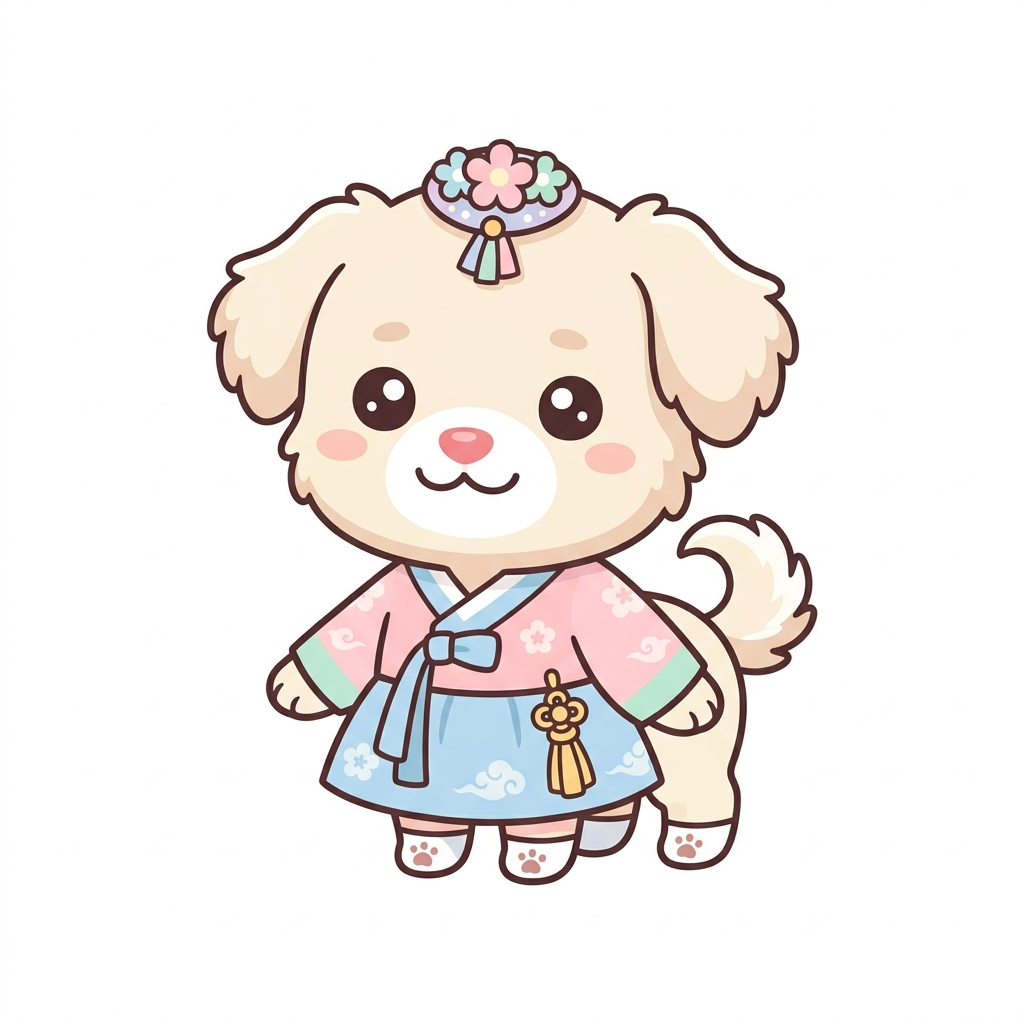
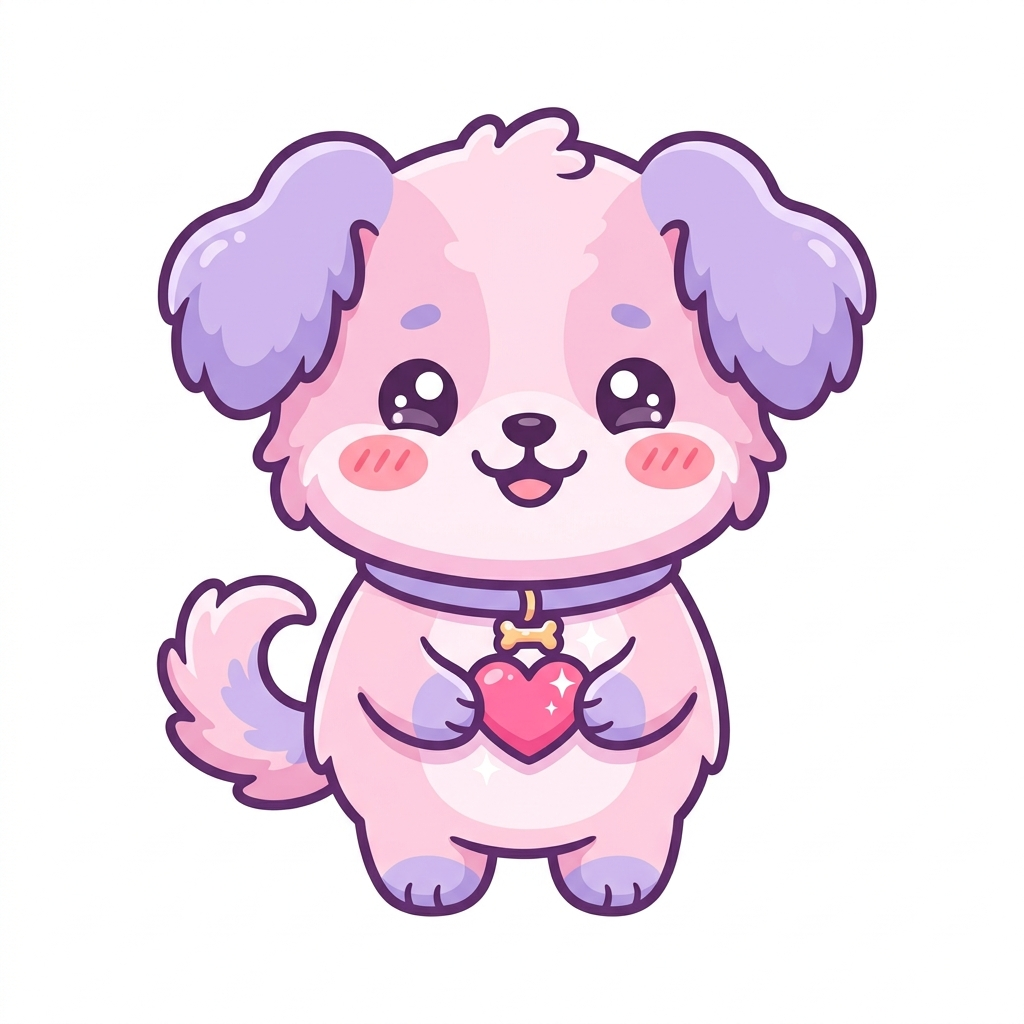
add Live2D style CSS standby animation to chibi mascot

diff --git a/src/styles/global.css b/src/styles/global.css
@@ -149,6 +149,26 @@
     animation: cute-bounce 2s infinite ease-in-out;
   }
 
+  /* Cute Live2D-style standby/idle animation (breathing + swaying + floating) */
+  @keyframes chibi-standby {
+    0%, 100% {
+      transform: translateY(0) scale(1) rotate(0deg);
+    }
+    25% {
+      transform: translateY(-4px) scale(1.02, 0.98) rotate(1deg);
+    }
+    50% {
+      transform: translateY(-8px) scale(0.98, 1.02) rotate(-1.2deg);
+    }
+    75% {
+      transform: translateY(-4px) scale(1.01, 0.99) rotate(0.6deg);
+    }
+  }
+
+  .animate-chibi-standby {
+    animation: chibi-standby 3.8s infinite ease-in-out;
+  }
+
   /* Cute filmstrip or tape design */
   .film-strip-sprockets {
     background-image: repeating-linear-gradient(
